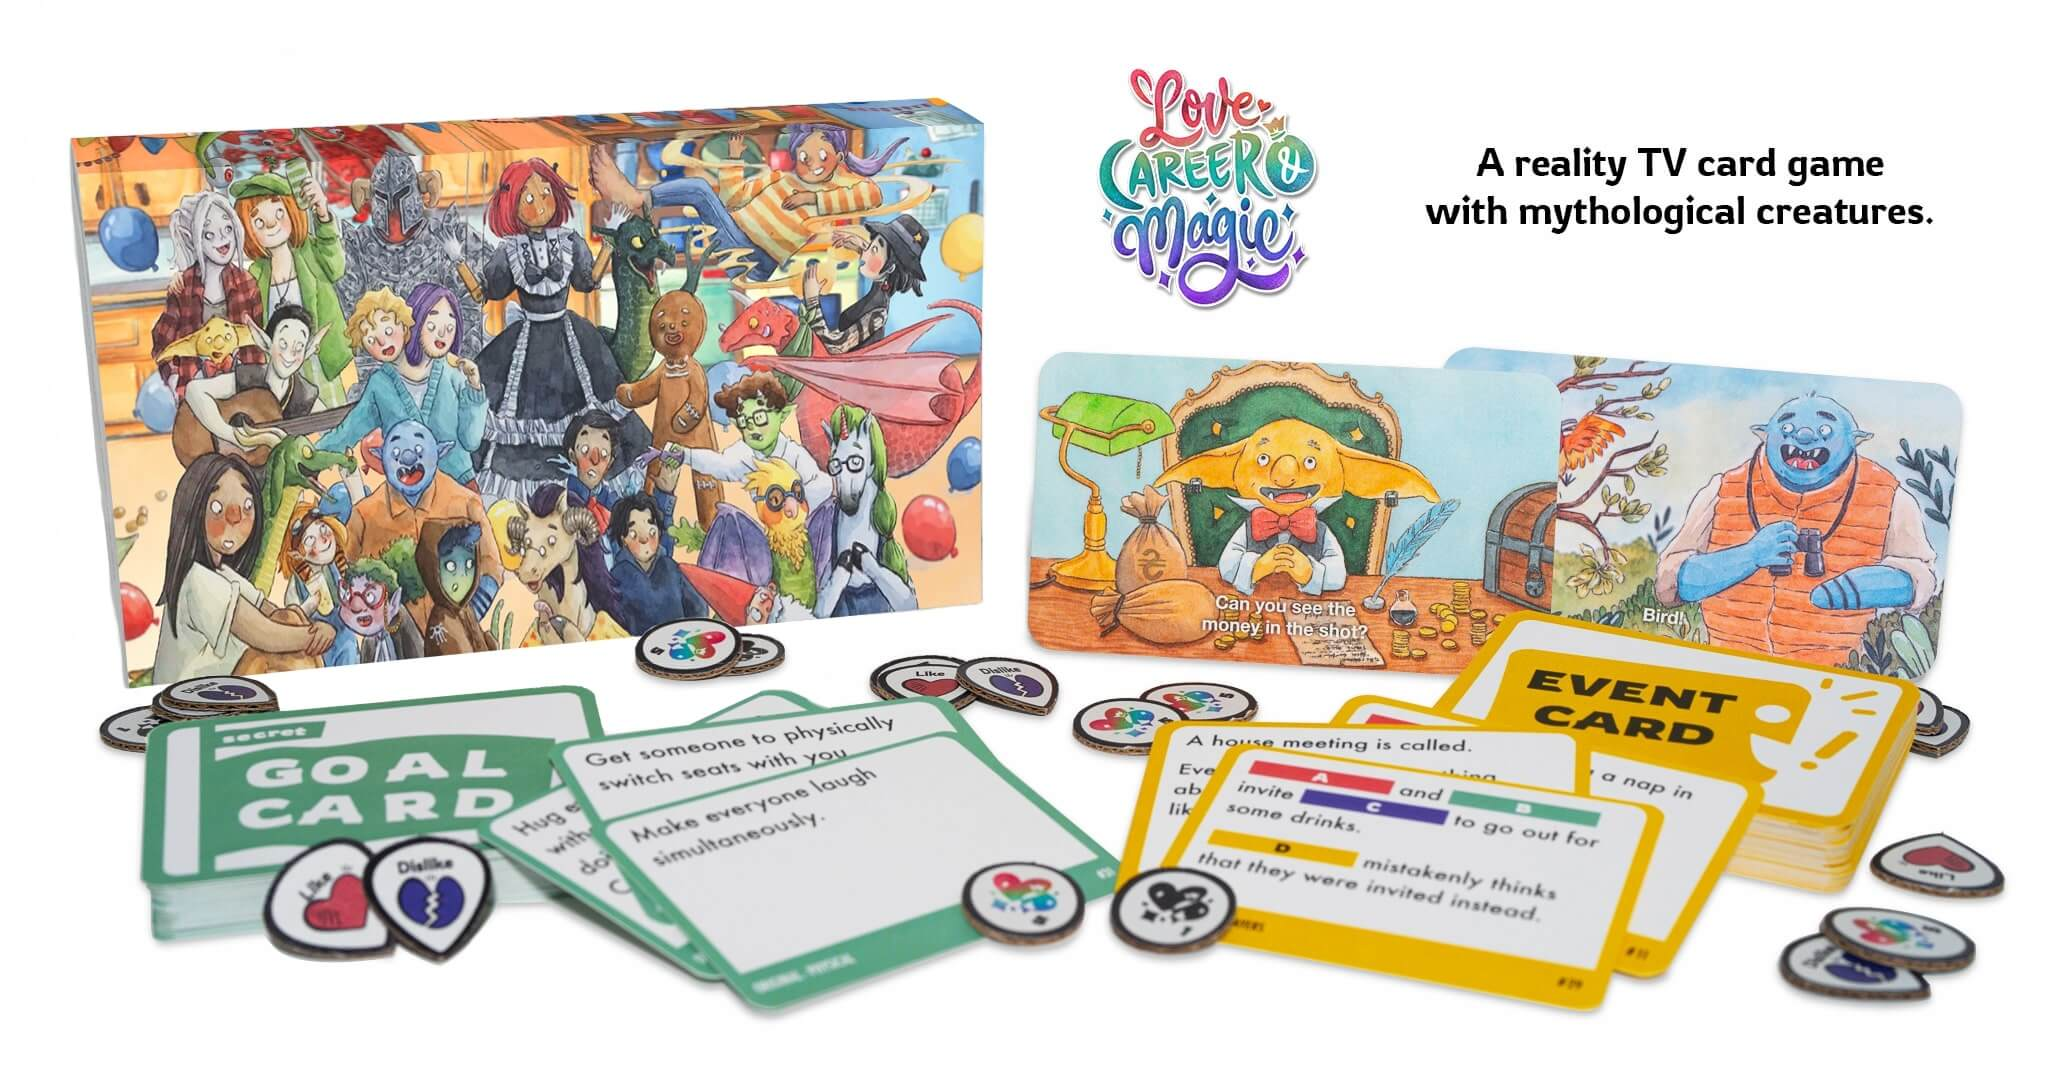
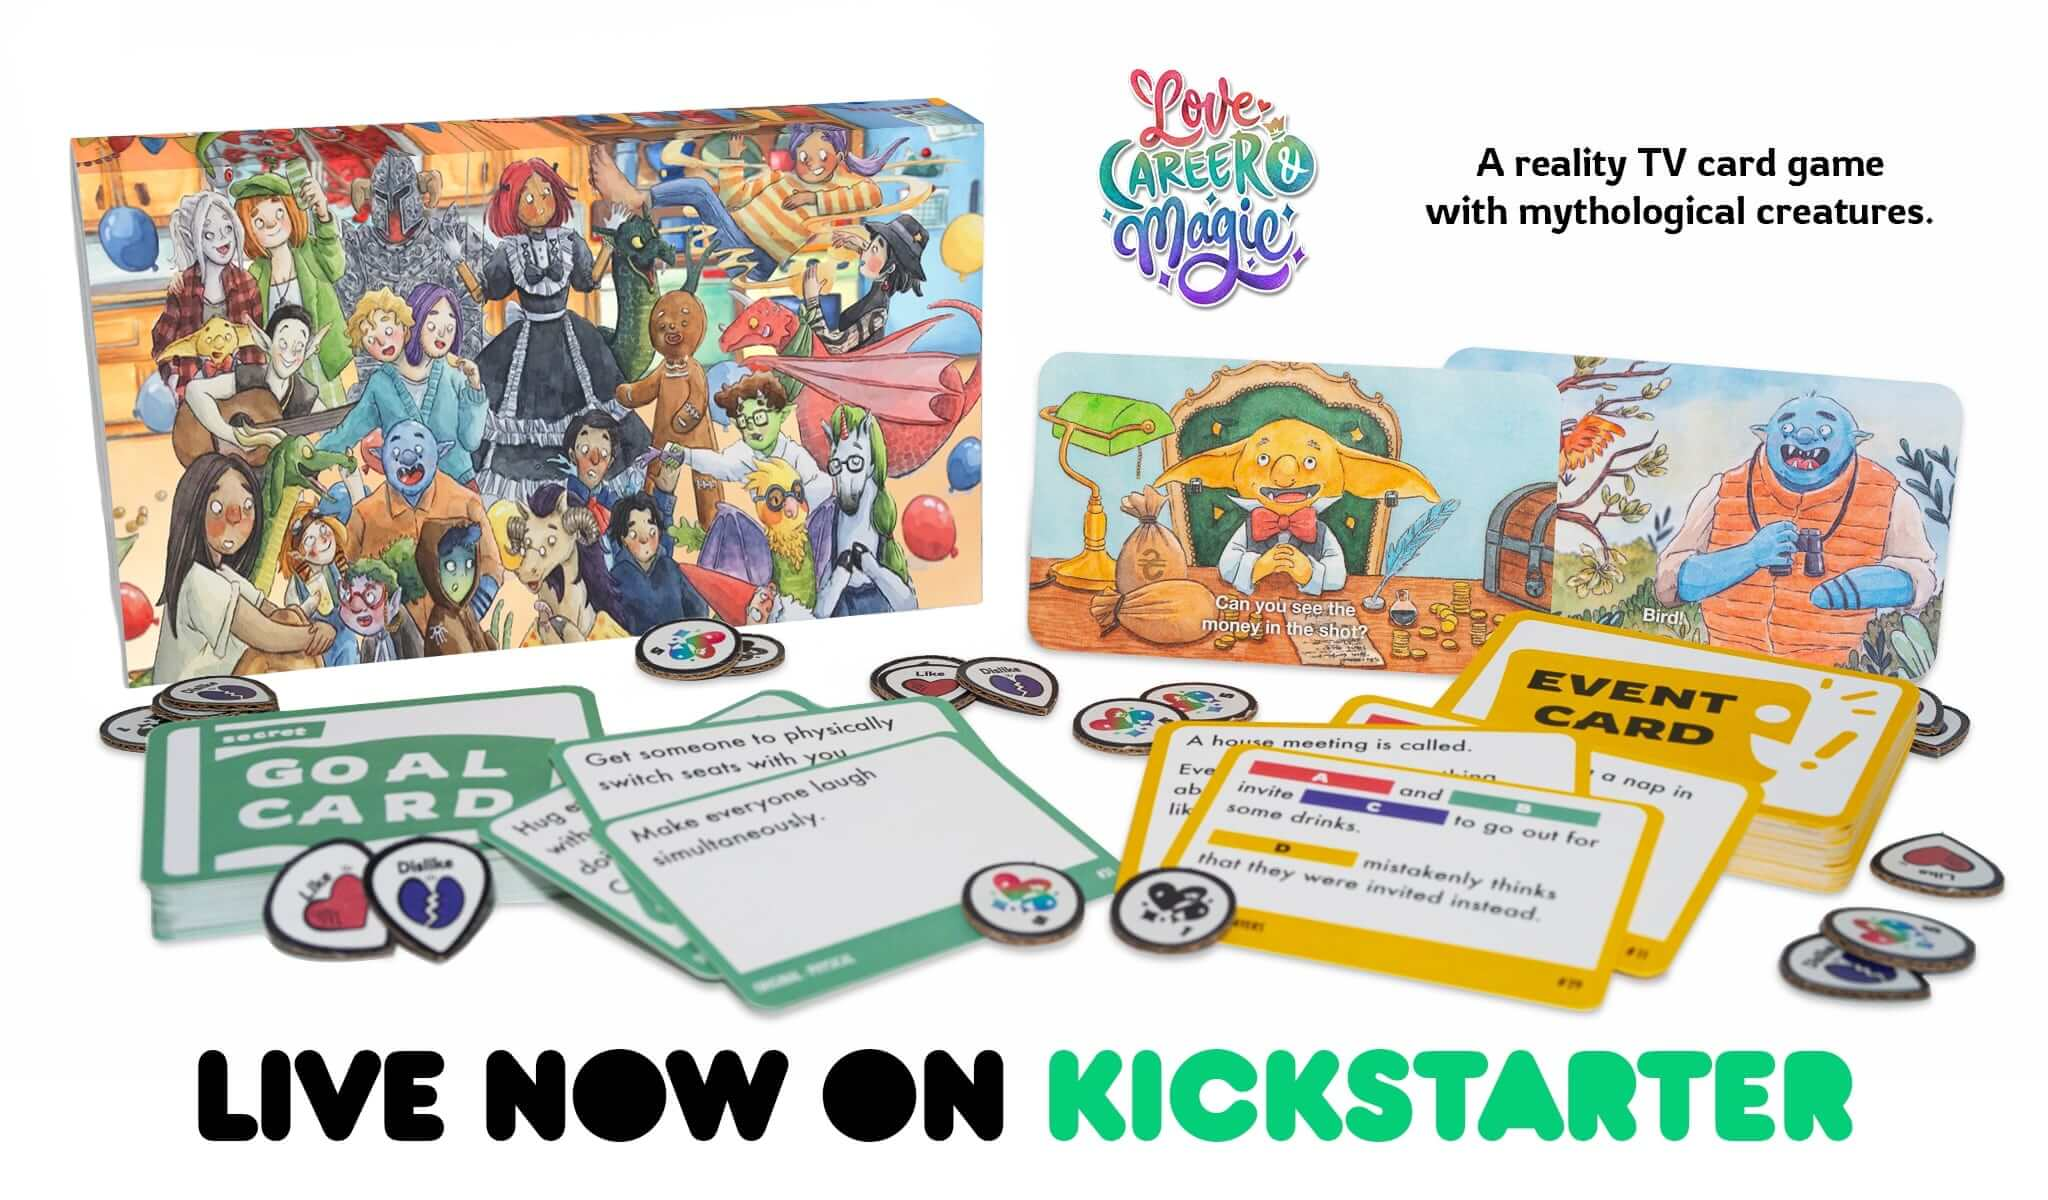
ks live copy

diff --git a/src/components/Home/HomePage.js b/src/components/Home/HomePage.js
@@ -7,7 +7,7 @@ import { CharacterSpotlight } from '../utils/CharacterSpotlight.js';
 import { GsapFadeDelay, GsapFadeScrub, GsapWiggle } from "../utils/useGsap.js";
 import useWindowDimensions from '../utils/useWindowDimensions.js';
 import DefaultButton from '../utils/DefaultButton.js';
-import EmailForm from '../utils/EmailForm.js';
+// import EmailForm from '../utils/EmailForm.js';
 
 // sections
 import CarouselSection from "../utils/CarouselSection.js";
@@ -45,6 +45,9 @@ const HomePage = forwardRef((props, ref) => {
   const scrollToDescription = () => descriptionSectionRef.current.scrollIntoView({behavior: 'smooth'});
   const scrollToTop = () => topLogoRef.current.scrollIntoView({behavior: 'smooth'});
 
+  //redirect to live KS
+  const redirectToKS = () => window.location.href = "http://bit.ly/lovecareermagic";
+
   // <DefaultButton shadowless icon="email_white" ref={navbarButton} className={`${homeStyles.topMailButton} GTMtoggleEmailButton` } text={t('email form.joinbutton')}/>
   // <DefaultButton shadowless animated icon="arrowRightWhite" className="kickstarterButton" href="https://bit.ly/lovecareermagic" text={t('navbar.kickstarter')}/>
   // <GsapFadeDelay delay={1500} className={`${homeStyles.titleWrapper} ${homeStyles.topOne}`} >
@@ -53,34 +56,37 @@ const HomePage = forwardRef((props, ref) => {
   //   </div>
   // </GsapFadeDelay>
 
+  // <EmailForm className="mainpageEmail" hideTitle isActiveAndDesktop />
+  // <EmailForm className="mainpageEmail secondMainpageEmail" hideTitle />
+
   return (
     <div className="content">
 
       <ParallaxSection />
 
-      <div ref={topLogoRef} id={`${homeStyles.heroContainer}`} className={`${homeStyles.mainContentWrapper} noselect`}>
-        <div className={homeStyles.screenHeight}>
-          <GsapFadeDelay delay={1500}>
-            <h4 className={`${homeStyles.mobileTagLine} is-hidden-desktop`}>{t('main page.mobile tag line')}</h4>
-          </GsapFadeDelay>
-          <GsapFadeDelay delay={0} className={`${homeStyles.heroImage}`} >
-            <img alt="Box and components of the card game." src="/images/mainbox.jpg" />
-          </GsapFadeDelay>
-          <GsapFadeDelay delay={1500} className={homeStyles.scrollContainer}>
-            <EmailForm className="mainpageEmail" hideTitle isActiveAndDesktop />
-            <GsapFadeScrub scrub startScreenTop fadeOut >
-              <div className={homeStyles.scrollHorizontalContainer}>
-                <div id={homeStyles.animatedScroll} className={homeStyles.scrollVerticalContainer}></div>
-                <div className={homeStyles.scrollVerticalContainer}></div>
-              </div>
-              <div className={homeStyles.scrollHorizontalContainer}>
-                <p onClick={scrollToDescription} className="noselect">Scroll to learn how to play!</p>
-              </div>
-            </GsapFadeScrub>
-          </GsapFadeDelay>
+        <div ref={topLogoRef} id={`${homeStyles.heroContainer}`} className={`${homeStyles.mainContentWrapper} noselect`}>
+          <div className={homeStyles.screenHeight}>
+            <GsapFadeDelay delay={0} className={`${homeStyles.heroImage}`} >
+              <img onClick={redirectToKS} alt="Box and components of the card game." src="/images/mainbox.jpg" />
+            </GsapFadeDelay>
+            <GsapFadeDelay delay={1500}>
+              <h4 className={`${homeStyles.mobileTagLine} is-hidden-desktop`}>{t('main page.mobile tag line')}</h4>
+            </GsapFadeDelay>
+            <GsapFadeDelay delay={1500} className={homeStyles.scrollContainer}>
+              <DefaultButton shadowless animated icon="arrowRightWhite" style={{marginBottom:"50px",width:"calc(100% - 2em)"}} className="liveKS" href="https://bit.ly/lovecareermagic" text={t('navbar.kickstarter')}/>
+              <GsapFadeScrub scrub startScreenTop fadeOut >
+                <div className={homeStyles.scrollHorizontalContainer}>
+                  <div id={homeStyles.animatedScroll} className={homeStyles.scrollVerticalContainer}></div>
+                  <div className={homeStyles.scrollVerticalContainer}></div>
+                </div>
+                <div className={homeStyles.scrollHorizontalContainer}>
+                  <p onClick={scrollToDescription} className="noselect">Scroll to learn how to play!</p>
+                </div>
+              </GsapFadeScrub>
+            </GsapFadeDelay>
+          </div>
+          <div className={homeStyles.screenHeight}></div>
         </div>
-        <div className={homeStyles.screenHeight}></div>
-      </div>
 
       <div ref={descriptionSectionRef} id={`${homeStyles.descriptionContainer}`} className={`${homeStyles.mainpageContainer}`}>
         <div className={`${homeStyles.descriptionWrapper}`}>
@@ -95,7 +101,7 @@ const HomePage = forwardRef((props, ref) => {
             </div>
             <div className={`${homeStyles.descriptionTextWrapper} subcontentWrapper min-width`}>
               <p>{t('main page.description.subtitle3')}</p>
-              <EmailForm className="mainpageEmail secondMainpageEmail" hideTitle />
+              <DefaultButton shadowless animated icon="arrowRightWhite" className="liveKS" href="https://bit.ly/lovecareermagic" text={t('navbar.kickstarter')}/>
             </div>
           </GsapFadeScrub>
         </div>
@@ -194,10 +200,10 @@ const HomePage = forwardRef((props, ref) => {
       <EmojiSection className={`${homeStyles.mainpageContainer}`} />
 
       <div id={`${homeStyles.finalContainer}`} className={`${homeStyles.mainpageContainer}`}>
-        <GsapFadeScrub fadeIn className={`subcontentWrapper`}>
+        <GsapFadeScrub fadeIn className={`${homeStyles.finalButtonsContainer} subcontentWrapper`}>
           <h1>{t('main page.final.description')}</h1>
           <div className={`${homeStyles.finalButtonsWrapper}`}>
-            <DefaultButton shadowless animated icon="arrowRightWhite" className="kickstarterButton" href="https://bit.ly/lovecareermagic" text={t('navbar.kickstarter')}/>
+            <DefaultButton shadowless animated icon="arrowRightWhite" className="kickstarterButton liveKS" href="https://bit.ly/lovecareermagic" text={t('navbar.kickstarter')}/>
             <DefaultButton inverted borderedBlack shadowless icon="favorite" href="https://sysifuscorp.com" text={t('main page.final.otherworks')}/>
           </div>
         </GsapFadeScrub>

diff --git a/src/translations/english.js b/src/translations/english.js
@@ -52,7 +52,7 @@ const english = {
       "contact us":"About / Contact",
       "card designer":"Card Designer",
       "blog":"Blog",
-      "kickstarter":"Remind me on Kickstarter",
+      "kickstarter":"LIVE on Kickstarter!",
     },
 
     "main page":{
@@ -108,7 +108,7 @@ const english = {
         "description": "Character Spotlight",
       },
       "final": {
-        "description": "Coming to Kickstarter Sep 13!",
+        "description": "Live now on Kickstarter!",
         "otherworks": "Check out my other game",
       },
     },
@@ -117,7 +117,7 @@ const english = {
       "joinbutton": "Sign up!",
       "prompt": "Stay updated on the latest news!",
       "button": "Sign up!",
-      "promise": "Sign up now to get a <span class='is-bold'>free digital artbook</span> and to be notified when we launch!",
+      "promise": "Sign up to stay updated on the latest news!",
       "sending": "Submitting...",
       "success": "Thank you for signing up!"
     },
@@ -274,7 +274,7 @@ const english = {
       "discordjoin": "Get Free Emojis",
       "emojidesc1":"See previews and unreleased content before anyone else.",
       "emojidesc2":"Be a part of the developer journey from the beginning.",
-      "emojidesc3":"Give feedback and help make this game a reality.",
+      "emojidesc3":"Give feedback for all upcoming projects.",
     },
 
     "contact page":{
@@ -282,7 +282,7 @@ const english = {
       "about me 1": "Hello, my name is Wonmin.\nI'm the game designer.",
       "about me 2": `I quit my corporate job back in 2016 to pursue my dreams of becoming a game developer. And in March of 2021, that dream became a reality when my first game, <a href="https://sysifuscorp.com" target="_blank" rel="noreferrer">Welcome to Sysifus Corp</a> was successfully funded on Kickstarter.`,
       "about me 3": "I had no idea what I was doing when I quit my job. Even now, I'm still terrified for my future. But it is thanks to the support of strangers like you that I am able to do what I love. And for that, I am incredibly thankful.",
-      "about me 4": `I've been hard at work on Love, Career & Magic and I know it'll be amazing. Thanks for visiting my humble page and please do consider <a href="https://bit.ly/lovecareermagic" target="_blank" rel="noreferrer">signing up to be reminded when I launch on Kickstarter on Sep 13!</a>`,
+      "about me 4": `I've been hard at work on Love, Career & Magic and I know it'll be amazing. Thanks for visiting my humble page and please do consider <a href="https://bit.ly/lovecareermagic" target="_blank" rel="noreferrer">backing on Kickstarter!</a>`,
       "description 1": "Love, Career & Magic is made by ",
       "description 2": " and is not affiliated with any existing reality TV show.",
       "description 3": "Although I would absolutely love to be, wink wink.",

diff --git a/src/components/Navbar/Navbar.js b/src/components/Navbar/Navbar.js
@@ -70,6 +70,9 @@ export const NavbarMain = (props) => {
 
   //email sign up button
   // <DefaultButton shadowless animated icon="arrowRightWhite" href="https://bit.ly/lovecareermagic" id="kickstarterButton" className="kickstarterButton" text={t('navbar.kickstarter')}/>
+
+  //navbar open
+  // <DefaultButton shadowless animated icon="forward" id="emailToggleButtonMobile" className={`${mailButtonVisibleClass} GTMtoggleEmailButton`} onClick={toggleMail} text={t('email form.joinbutton')}/>
   return (
     <div className={`navbarClass ${isVisibleClass}`}>
 
@@ -79,7 +82,7 @@ export const NavbarMain = (props) => {
         </GsapFadeScrub>
         <div className="navbarFloatRight">
           <GsapFadeScrub scrub startScreenTop fadeIn >
-            <DefaultButton shadowless animated icon="forward" id="emailToggleButtonMobile" className={`${mailButtonVisibleClass} GTMtoggleEmailButton`} onClick={toggleMail} text={t('email form.joinbutton')}/>
+            <DefaultButton shadowless animated icon="forward" id="emailToggleButtonMobile" className={`${mailButtonVisibleClass} liveKS`} href="https://bit.ly/lovecareermagic" text={t('navbar.kickstarter')}/>
           </GsapFadeScrub>
           <button
             id="navbarOpenClose"
@@ -117,7 +120,7 @@ export const NavbarMain = (props) => {
             <ShootingStar className="leftStar" isActive={visible} orientation="up" delay="4"/>
             <ShootingStar className="leftStar" isActive={visible} orientation="down" delay="6"/>
             <EmailForm hideTitle={false} isActiveAndDesktop={isActiveAndDesktop}/>
-            <img className="artbookMockup" src="/images/artbook/small_mockup1.jpg" alt={t('artbook page.description')}></img>
+            <img className="artbookMockup" src="/images/photoshoot/game/small/small_pictures1.jpg" alt={t('artbook page.description')}></img>
           </div>
         </div>
       </div>

diff --git a/src/Router.js b/src/Router.js
@@ -8,17 +8,26 @@ import HomePage from './components/Home/HomePage.js';
 import AboutPage from './components/About/AboutPage.js';
 import CharactersPage from './components/Characters/CharactersPage.js';
 import FreeStickersPage from './components/FreeStickersPage.js';
-import ArtbookDownloadPage from './components/ArtbookDownloadPage.js';
-import FreeArtbookPage from './components/FreeArtbookPage.js';
 import ContactPage from './components/ContactPage.js';
 import ErrorPage from './components/ErrorPage.js';
 import Footer from './components/Footer.js';
+// import ArtbookDownloadPage from './components/ArtbookDownloadPage.js';
+// import FreeArtbookPage from './components/FreeArtbookPage.js';
 
 const Router = (props) => {
 
   // <Route path="/designer" render={() => {
   //   return <DesignerPage />
   // }} />
+  // <Route exact path="/freeartbook" render={() => {
+  //     return <FreeArtbookPage />
+  //   }} />
+  // <Route exact path="/digitalartbook" render={() => {
+  //   return <ArtbookDownloadPage />
+  // }} />
+  // <Route exact path="/freesticker" render={() => {
+  //     return <FreeStickersPage />
+  //   }} />
 
   //magic to open the navbar from inside homepage
   let setNavbarActive = useRef(null);
@@ -47,15 +56,6 @@ const Router = (props) => {
           }} />
           <Route exact path="/contact" render={() => {
             return <ContactPage />
-          }} />
-          <Route exact path="/freesticker" render={() => {
-            return <FreeStickersPage />
-          }} />
-          <Route exact path="/freeartbook" render={() => {
-              return <FreeArtbookPage />
-            }} />
-          <Route exact path="/digitalartbook" render={() => {
-            return <ArtbookDownloadPage />
           }} />
           <Route render={() => {
             return <ErrorPage />

diff --git a/src/css/homePage.module.css b/src/css/homePage.module.css
@@ -74,6 +74,8 @@
   object-fit: contain;
   height:100%;
   max-height:500px;
+  /* for live KS */
+  cursor:pointer;
 }
 
 /* mobile */
@@ -81,6 +83,9 @@
   .heroImage {
     height:100%;
     padding-top:0;
+    display:flex;
+    justify-content: center;
+    align-items: center;
   }
   .heroImage > img {
     width:calc(100% - 4em);
@@ -760,6 +765,11 @@
 
 #finalContainer > div{
   margin-bottom:10vh;
+}
+
+.finalButtonsContainer{
+  padding:0;
+  width:calc(100% - 4em);
 }
 
 .finalButtonsWrapper{

diff --git a/src/components/utils/useGsap.js b/src/components/utils/useGsap.js
@@ -42,7 +42,7 @@ export const GsapFadeScrub = (props) => {
   const target = useRef(null);
 
   //for when the element is in view from load
-  let startScreenTop = props.startScreenTop || false;
+  let startScreenTop = (props.startScreenTop && window.location.pathname === "/" );
   let scrubStartBot = props.scrubStartBot || false;
   let scrubStartCenter = props.scrubStartCenter || false;
 

diff --git a/src/css/index.css b/src/css/index.css
@@ -149,6 +149,10 @@ span.is-bold {
   width:fit-content;
 }
 
+.defaultButton.liveKS{
+  background-color:#05ce78;
+}
+
 @media only screen and (max-width: 900px) {
   .defaultButton{
     margin:auto;
